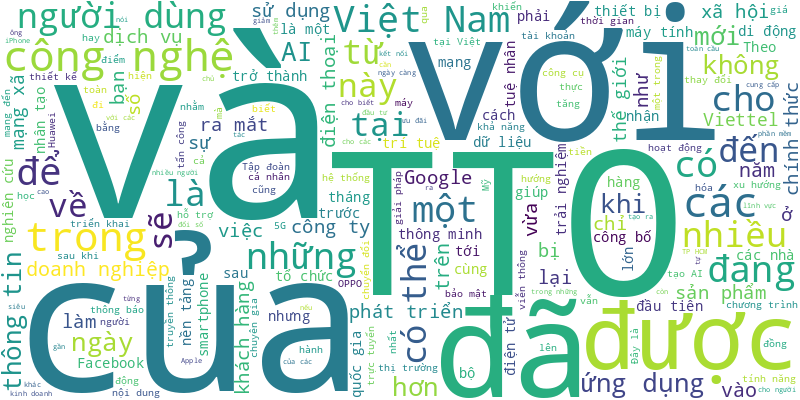
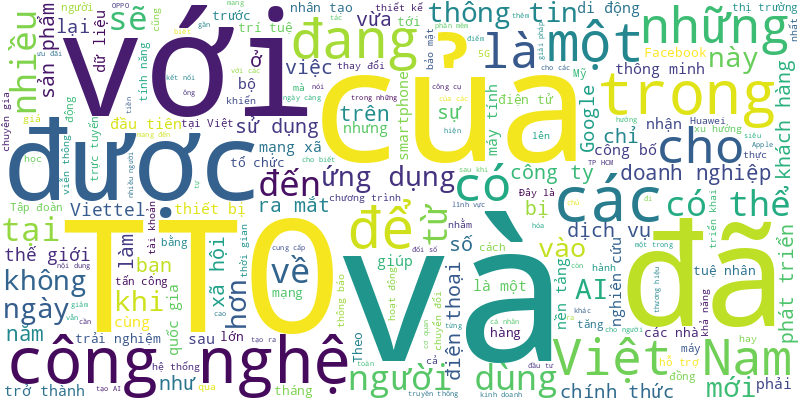
🍀 = 40%

diff --git a/README.md b/README.md
@@ -1,6 +1,17 @@
 # Tuoi Tre RSS 
 
 ## Giáo dục 
+- Theo sở GD-ĐT Hà Nội, trong kỳ thi tốt nghiệp THPT sắp tới, Hà Nội sẽ áp dụng bản đồ số để hỗ trợ thí sinh, phụ huynh tìm điểm thi.
+- Hiện nay các trường đại học đã tuyển sinh theo nhiều phương thức xét tuyển đa dạng nhưng việc xét tuyển theo khối thi có còn phù hợp với Chương trình giáo dục phổ thông 2018?
+- Trường đại học VinUni chính thức công bố chiến lược tăng tốc phát triển giai đoạn 2 với mục tiêu trở thành một trong 100 đại học xuất sắc nhất toàn cầu.
+- Trường Phổ thông Năng khiếu, Đại học Quốc gia TP.HCM cho biết sẽ công bố điểm thi, điểm chuẩn lớp 10 năm học 2025-2026 vào khoảng 10h-11h hôm nay (10-6).
+- Đã có những tỉnh thành đầu tiên công bố điểm thi, điểm chuẩn lớp 10 năm 2025. Dự kiến trong nửa cuối tháng 6, hàng loạt địa phương sẽ công bố kết quả.
+- Ở tuổi 19, Mạnh Đức đi thi vào lớp 10 và dắt theo em gái nhỏ. Đến cổng trường, nam sinh nhờ các tình nguyện viên trông em gái giúp và vội vàng vào phòng thi.
+- Báo cáo gửi đại biểu Quốc hội trước phiên chất vấn kỳ họp thứ 9, Bộ trưởng Nguyễn Kim Sơn tiếp tục đề xuất đưa dạy thêm, học thêm vào danh mục ngành nghề kinh doanh có điều kiện.
+- Sau 150 phút làm bài thi ngữ văn vào lớp 10 chuyên ở Hà Nội, nhiều thí sinh bước ra khỏi điểm thi với gương mặt vui tươi và nhận định đề thi "dễ hơn tưởng tượng", "mang tính cá nhân cao"...
+- Dự Luật Nhà giáo quy định lương nhà giáo được xếp cao nhất trong hệ thống thang bậc lương. Nhưng ông Phan Văn Mãi đề xuất cần có chế độ gấp đôi, gấp ba để tuyển chọn những người ưu tú nhất.
+- Hơn 102.000 thí sinh Hà Nội vừa trải qua kỳ thi dành cho khối không chuyên để tuyển sinh vào lớp 10 công lập. Mối quan tâm bây giờ là điểm chuẩn vào các trường liệu có biến động mạnh không?
+- Bộ trưởng Nguyễn Kim Sơn nêu rõ, trong trách nhiệm thực thi công vụ, giáo viên phải hoàn thành việc trang bị kiến thức cho học sinh của mình ngay trong giờ chính khóa.
 - Bên cạnh việc đào tạo thực hành, thực chiến dài hạn, xuyên suốt nguyên một học kỳ tại báo Tuổi Trẻ như lâu nay, chương trình Làm báo cùng Tuổi Trẻ mở ra một mô hình mới trong hợp tác đào tạo báo chí - truyền thông.
 - Học bổng trị giá 1 triệu đồng/suất dành cho các em nghèo hiếu học ở Kiên Giang cố gắng phấn đấu, vượt qua khó khăn, đi học để viết tiếp tương lai.
 - Trò chuyện với một cô giáo dạy văn trong lúc chờ học trò thi môn văn của kỳ thi tuyển sinh vào lớp 10 Hà Nội, bắt đầu với con số thật ấn tượng: một năm học, học trò được tiếp cận 86 văn bản và tác phẩm.
@@ -990,19 +1001,60 @@
 - Là thí sinh đạt điểm cao nhất kỳ thi đánh giá năng lực của Đại học Quốc gia Hà Nội đợt 1, Phương Thảo cho biết quá trình ôn thi của mình khá nhẹ nhàng, nói không với thức khuya quá 23h đêm.
 - Chiều 17-3, Sở Giáo dục và Đào tạo TP.HCM có văn bản chỉ đạo về việc ôn thi tốt nghiệp THPT cho học sinh lớp 12.
 - Việc tuyển sinh đầu cấp ở Hà Nội sẽ bắt đầu từ đầu tháng 7-2025, theo hướng dẫn tuyển sinh năm học 2025-2026 vừa được Sở Giáo dục và Đào tạo Hà Nội ban hành.
-- Thí sinh xét tuyển hệ quân sự phải trải qua sơ tuyển tại ban chỉ huy quân sự cấp quận, huyện, thị xã, thành phố, nơi đăng ký thường trú.
-- Văn Hoàng Minh Anh - học sinh lớp 10CATH1, Trường THPT chuyên Lê Hồng Phong, TP.HCM - cho rằng điện thoại thông minh làm cho học sinh dễ bị phân tâm, khó có thể tự học.
-- Trước đó, Vũ Minh Đức - học sinh lớp 12 toán 2 Trường THPT chuyên Bắc Ninh - trở thành thủ khoa kỳ thi đánh giá tư duy đợt 1 với 98,61/100 điểm - đây là điểm số cao nhất từ trước tới nay, xô đổ mọi kỷ lục của các thủ khoa những năm trước.
-- Học viện Tài chính vừa công bố phương án tuyển sinh năm 2025 với nhiều thay đổi, như bỏ phương thức xét tuyển theo điểm thi đánh giá năng lực, đánh giá tư duy.
-- Dự kiến cuối tháng 3-2025, Sở Giáo dục và Đào tạo TP.HCM sẽ cho ra mắt cổng thông tin điện tử về dạy thêm, học thêm.
-- Đại học Quốc gia Hà Nội vừa công bố chỉ tiêu tuyển sinh đại học chính quy năm 2025, tăng 2.285 chỉ tiêu so với năm ngoái.
-- Kỳ thi các môn năng khiếu được Trường đại học Kiến trúc TP.HCM tổ chức, bổ sung cho phương thức tuyển sinh đại học để lấy kết quả làm căn cứ, một tiêu chí phục vụ xét tuyển.
-- Hệ thống giáo dục Luxembourg nổi tiếng với việc giảng dạy đa ngôn ngữ, giúp học sinh thành thạo nhiều thứ tiếng.
-- Thay vì lo lắng, băn khoăn, các bạn trẻ cần trang bị cho mình kiến thức chuyên môn, kỹ năng mềm thật tốt; lựa chọn ngành nghề phù hợp với tố chất, đam mê của mình.
-- Theo hội đồng thi, điểm trung bình của bài thi đánh giá năng lực năm 2025 (kỳ thi HSA) sẽ cao hơn các năm trước. Lý do là thí sinh được lựa chọn phần thi thứ ba phát huy năng lực và sở trường cá nhân.
-- Bộ Công an sẽ có những điều chỉnh trong tuyển sinh Công an nhân dân về đơn vị sơ tuyển thí sinh, phương thức xét tuyển, nội dung bài thi đánh giá của Bộ Công an.
 ![Edu](Edu.png)
 ## Thời Sự 
+- Sở Nội vụ Quảng Nam yêu cầu rà soát, tổng hợp nhu cầu việc làm tại doanh nghiệp của những người sau nghỉ việc, nghỉ hưu trước tuổi do sắp xếp tổ chức bộ máy, đơn vị hành chính, nhất là người hoạt động không chuyên trách cấp xã.
+- Từ ngày 1-7, một số trường hợp tự đi khám chữa bệnh trái tuyến vẫn được hưởng 100% mức hưởng bảo hiểm y tế.
+- Quá trình tuần tra kiểm soát trên các tuyến đường, lực lượng cảnh sát đã phát hiện xe tải chở nhiều mặt hàng không rõ nguồn gốc xuất xứ.
+- Sáng nay 10-6, vùng áp thấp trên khu vực Bắc Biển Đông đã mạnh lên thành áp thấp nhiệt đới, dự báo sẽ còn mạnh lên thành bão số 1.
+- Tin tức đáng chú ý: Hoàn thành xóa nhà tạm, nhà dột nát trước ngày 31-8; Ủy ban Thường vụ Quốc hội cho ý kiến đầu tư đường vành đai 4 TP.HCM; Sợ hàng giả, dân đổ về siêu thị...
+- Hôm nay 10-6, thời tiết Bắc Bộ và Nam Bộ mưa dông, nhiều nơi mưa to. Trên biển, vùng áp thấp hoạt động ở Bắc Biển Đông gây sóng gió mạnh.
+- Ban Tuyên giáo và Dân vận Thành ủy TP.HCM đang hoàn chỉnh đề án sắp xếp hệ thống báo chí TP đồng bộ với sắp xếp đơn vị hành chính cấp tỉnh, hoàn thành trước ngày 15-9.
+- Ngày 9-6, Thủ tướng Chính phủ ban hành các quyết định kéo dài thời gian giữ chức vụ, bổ nhiệm lại với một số thứ trưởng Bộ Công an.
+- Đó là nội dung được nêu trong thông báo số 294 ngày 9-6 kết luận của Thường trực Chính phủ tại cuộc họp về tình hình thị trường bất động sản do Văn phòng Chính phủ vừa đưa ra.
+- Từ ngày 12-6 đến 30-6, TP.HCM sẽ vận hành thử nghiệm mô hình chính quyền địa phương 2 cấp trên địa bàn.
+- Ông Nguyễn Xuân Thắng - giám đốc Học viện Chính trị quốc gia Hồ Chí Minh, chủ tịch Hội đồng Lý luận Trung ương - đã khen Quảng Ngãi sáng tạo khi vận hành thử nghiệm hoạt động cấp xã trong 5 ngày.
+- Cơ quan chức năng huyện Vĩnh Thạnh (tỉnh Bình Định) đang vào cuộc xác minh clip một nam sinh bị nhóm bạn dùng tay, chân, gậy đánh dã man dù đã quỳ gối van xin.
+- 5 đơn vị hành chính cấp xã mới ở Đồng Nai gồm Phước Tân, Hàng Gòn, Xuân Lộc, Đại Phước và Phú Lâm sẽ vận hành thử nghiệm từ ngày 13-6 tới.
+- Chủ tịch Hà Nội yêu cầu phải khởi công depot Xuân Đỉnh vào tháng 10-2025, và khởi công toàn tuyến vào quý 4-2026 đối với dự án đầu tư xây dựng tuyến đường sắt đô thị số 2 (giai đoạn 1).
+- UBND TP.HCM yêu cầu khẩn trương lập danh sách các điểm cần đẩy mạnh ngăn chặn, đẩy lùi tình trạng buôn lậu, gian lận thương mại, hàng giả, sữa giả, thuốc giả, thực phẩm chức năng giả, thực phẩm không chất lượng.
+- Một bé trai 12 tuổi tại tỉnh Quảng Bình đã bị bỏng nặng, do thả diều vướng vào đường dây điện cao thế.
+- Người mẹ chở con trai 3 tuổi về nhà ngoại, không may xe và người rơi xuống mương nước lớn dọc quốc lộ 25 (đoạn qua xã Hòa Định Tây, huyện Phú Hòa, tỉnh Phú Yên). Người dân kịp thời cứu được bé trai, nhưng người mẹ bị cuốn trôi và chết đuối.
+- Mặc dù chưa được cấp có thẩm quyền cho phép song một doanh nghiệp đã đưa cá đến khu vực hồ Kẻ Gỗ thả nuôi, việc này dẫn đến một số tổ chức, cá nhân liên quan bị kiểm điểm, làm rõ trách nhiệm.
+- UBND tỉnh Ninh Bình đề xuất Bộ Xây dựng báo cáo cấp có thẩm quyền mở rộng cao tốc Cầu Giẽ - Ninh Bình từ 4 làn xe lên 6 làn xe hoàn chỉnh.
+- Dự báo trong 24 giờ tới, vùng áp thấp có khả năng mạnh lên thành áp thấp nhiệt đới, sau đó tiếp tục mạnh lên thành bão với xác suất 60-70%.
+- UBND tỉnh Kon Tum yêu cầu Sở Nông nghiệp và Môi trường báo cáo lại vụ cấp mã số vùng trồng sâm Ngọc Linh cho một doanh nghiệp vì cho rằng báo cáo chưa rõ ràng, thiếu cơ sở pháp lý và thực tiễn.
+- Tổng Bí thư Tô Lâm nhìn nhận sáp nhập Lâm Đồng, Bình Thuận, Đắk Nông thành tỉnh Lâm Đồng mới là quyết sách chiến lược nhằm tái cấu trúc không gian phát triển.
+- Ngày 9-6, Ban Thường vụ Tỉnh ủy Thanh Hóa đã cho ý kiến vào kế hoạch tổ chức vận hành thử nghiệm hoạt động của các cơ quan đảng, hội đồng nhân dân, UBND xã, phường mới sau sắp xếp đơn vị hành chính.
+- Xã Bình Sơn có dân số đông nhất, xã Cà Đam có dân số ít nhất, xã Ba Tô có diện tích rộng nhất, phường Cẩm Thành có diện tích nhỏ nhất tỉnh Quảng Ngãi sau sắp xếp, sáp nhập đơn vị hành chính cấp xã.
+- Từ 2020-2025, Liên doanh Việt - Nga Vietsovpetro khai thác được 14,6 triệu tấn dầu thô, qua đó doanh thu bán dầu và các sản phẩm đi cùng ước đạt 9,03 tỉ đô la Mỹ.
+- Dù tỉnh đã thống nhất hủy bỏ, người dân bị thu hồi đất trong "dự án treo" suốt 15 năm lo lắng sẽ không được giải quyết trước khi bỏ cấp huyện.
+- Ngày 9-6, lãnh đạo UBND phường 12 (quận 10, TP.HCM) cho biết sẽ cho xác minh thông tin bãi giữ xe tại số 816 Sư Vạn Hạnh lấy giá 200.000 đồng/ngày, sau khi một số tài khoản đăng clip gán ghép bãi giữ xe này là của Bệnh viện Nhân dân 115.
+- Phát hiện hàng loạt vi phạm về môi trường tại 1 resort ven biển, Đà Nẵng đã xử phạt với tổng số tiền hơn 224 triệu đồng. Nhiều người bày tỏ ủng hộ việc xử lý này.
+- Hà Nội thành lập 11 tổ công tác, nhằm tổ chức phối hợp liên ngành có chức năng giúp Chủ tịch UBND TP nghiên cứu, tổ chức thực hiện, phối hợp giải quyết các vấn đề quan trọng, thường xuyên, liên ngành trong quá trình sắp xếp, tổ chức lại cấp xã.
+- Chỉ số đại diện sàn chứng khoán lớn nhất Việt Nam khép lại phiên giao dịch đầu tuần với mức giảm gần 20 điểm. Cổ phiếu nhóm Vingroup là tâm điểm khi đồng loạt giảm sàn, gây áp lực mạnh lên chỉ số chung.
+- Quy định cũ, quyết định 32 cho phép khai thác vỉa hè vào mục đích cụ thể, nhưng lại chưa được thể hiện trong nghị định 165 mới. TP.HCM đang xem xét điều chỉnh chính sách phù hợp với thực tế.
+- Công an tỉnh Phú Yên đã khởi tố bị can về tội danh 'sản xuất, buôn bán hàng giả là thực phẩm' với bà Đặng Thị Hòa Hiệp (53 tuổi, trú khu phố 3, phường An Phú, TP Thủ Đức, TP.HCM), là chủ thương hiệu cà phê Dạ Thảo.
+- Tổng Bí thư Tô Lâm chỉ đạo phải có quy hoạch quốc gia một cách thống nhất là cơ sở để phát triển từ trung ương đến địa phương.
+- Người chồng chở vợ và con nhỏ chạy trên tỉnh lộ 8 (huyện Củ Chi, TP.HCM) thì xảy ra va chạm với xe container khiến hai người bị cán tử vong thương tâm. Lực lượng chức năng đang điều tra nguyên nhân.
+- Biên phòng Cà Mau vừa tiếp nhận và chăm sóc nhân đạo cho 8 người nước ngoài trôi dạt trên biển. Hiện tại sức khỏe và tinh thần các thuyền viên đã ổn định.
+- Bộ trưởng Bộ Tài chính Nguyễn Văn Thắng cho hay việc bổ sung quy định phát hành trái phiếu riêng lẻ của công ty chưa đại chúng nhằm tăng năng lực về tài chính với doanh nghiệp phát hành.
+- Tổng thống Lithuania Gitanas Nauseda và Phu nhân sẽ thăm chính thức Việt Nam từ ngày 11 đến 12-6.
+- Ngày 9-6, lực lượng Công an TP.HCM đã tìm ra người đổ hàng ngàn hộp thuốc, thực phẩm chức năng ở Bình Chánh. Người này khai được người khác thuê, với số tiền công hàng triệu đồng.
+- Để nghị quyết 68 nhanh chóng đi vào cuộc sống, báo chí có sứ mệnh đặc biệt khi trở thành cầu nối vững chắc giữa chính sách và thực tiễn, thúc đẩy kinh tế tư nhân phát triển bền vững.
+- Sáng 9-6, Chủ tịch UBND TP Hà Nội Trần Sỹ Thanh làm việc với Hiệp hội Các nhà sản xuất xe máy Việt Nam (VAMM) về các giải pháp cho vấn đề chuyển đổi xe mô tô, xe gắn máy sử dụng nhiên liệu hóa thạch tại Hà Nội.
+- Công chứng điện tử tiện lợi hơn nhưng trước mắt còn thiếu nhiều công cụ hỗ trợ.
+- Cảnh sát hình sự Đà Nẵng vừa bắt nhóm người đi ô tô từ các tỉnh phía Bắc đến Đà Nẵng sau đó trà trộn vào lễ hội pháo hoa để móc túi.
+- Phường Bình Dương, phường Tân Uyên, phường Tân Đông Hiệp... là các phường mới sáp nhập của tỉnh Bình Dương bắt đầu vận hành thử nghiệm từ hôm nay, nhận hồ sơ dịch vụ hành chính công của người dân.
+- Một trong những trọng tâm được đẩy mạnh đầu tư là hệ thống đường vành đai, cao tốc liên vùng đang dần được hình thành sau nhiều năm chờ đợi.
+- Theo đại diện Công ty Thủy điện Hòa Bình, mực nước hồ Hòa Bình xuống mức 85m không ảnh hưởng đến việc phát điện và nằm trong kế hoạch khai thác theo đúng quy trình.
+- Dự Luật Nhà giáo quy định lương nhà giáo được xếp cao nhất trong hệ thống thang bậc lương. Nhưng ông Phan Văn Mãi đề xuất cần có chế độ gấp đôi, gấp ba để tuyển chọn những người ưu tú nhất.
+- Quyết tâm từ TP.HCM và các tỉnh làm tăng cả về số lượng và quy mô dự án, có những dự án cần triển khai gấp để người dân đi lại thuận tiện hơn.
+- Tại buổi làm việc với Tổng Bí thư Tô Lâm, lãnh đạo tỉnh Lâm Đồng đã đề xuất nâng cấp chuẩn 4E cho sân bay Liên Khương, cửa ngõ Đà Lạt và triển khai nhiều dự án giao thông phát triển tỉnh Lâm Đồng sau sáp nhập.
+- Gần 1.000ha trồng xoài ở xã Đắk Gằn (huyện Đắk Mil, Đắk Nông) đang vào chính vụ thu hoạch, nhưng xoài rớt giá còn 1.000 - 3.000 đồng/kg, bán cả tạ chỉ đủ mua vài ký gạo.
+- Sáng 9-6, lực lượng chức năng cấm xe máy vào đường dẫn cao tốc TP.HCM - Long Thành - Dầu Giây, khiến các tuyến đường xung quanh ùn tắc nghiêm trọng. Lực lượng cảnh sát giao thông nỗ lực phân luồng.
+- Bộ trưởng Nguyễn Kim Sơn nêu rõ, trong trách nhiệm thực thi công vụ, giáo viên phải hoàn thành việc trang bị kiến thức cho học sinh của mình ngay trong giờ chính khóa.
+- Tỉnh Đắk Nông yêu cầu kiểm tra, xử lý dứt điểm các khoản nợ tiền ăn uống, văn phòng phẩm kéo dài suốt gần 10 năm tại thị trấn Kiến Đức và xã Kiến Thành (Đắk R'lấp), trước khi sáp nhập đơn vị hành chính.
 - Vùng áp thấp hiện đang hoạt động ở Biển Đông có thể mạnh lên thành áp thấp nhiệt đới gây thời tiết xấu trên biển, trong đất liền cũng có nơi mưa to.
 - Xưởng phế liệu nằm cạnh dãy trọ với khoảng 10 người thuê trọ ở Bình Dương bốc cháy dữ dội vào sáng 9-6.
 - Công trình cầu Rạch Miễu 2 đang bước vào giai đoạn nước rút, gần 600 cán bộ kỹ thuật, công nhân đang ngày đêm làm việc để kịp hoàn thành dự án trong tháng 8-2025.
@@ -1951,60 +2003,10 @@
 - Phó thủ tướng thường trực Chính phủ Nguyễn Hòa Bình yêu cầu xử lý các dự án tồn đọng trước khi sáp nhập ba tỉnh thành tỉnh Lâm Đồng mới.
 - Ngân 98 cho biết vừa làm đơn tố giác gửi đến cơ quan chức năng, nghi ngờ bị vu khống và hãm hại có tổ chức để hạ bệ danh dự và uy tín.
 - Cảng nước sâu Mỹ Thủy có khả năng đón tàu 100.000 tấn đang gấp rút thi công, để đưa 1 bến cảng vào hoạt động cuối năm 2025, cùng với mong muốn biến cảng này thành một trong những cảng trung tâm cả nước.
-- Tin COVID-19 'nóng' trở lại, khiến lượng khẩu trang bán ra trên chợ mạng Shopee tăng vọt hơn 65% chỉ trong 2 tuần đầu tháng 5.
-- Chiều 21-5,  Bộ Quốc phòng tổ chức hội nghị giao nhiệm vụ triển khai tổ chức quân sự địa phương khi tổ chức bộ máy chính quyền địa phương 2 cấp. Đại tướng Phan Văn Giang, bộ trưởng Bộ Quốc phòng, chủ trì buổi làm việc.
-- 7 học sinh ở Quảng Ninh đi tắm suối bị lũ cuốn trôi, cơ quan chức năng đã cứu sống 3 em, 1 em đã chết, còn 3 em vẫn mất tích.
-- Công an tỉnh Phú Yên vừa nhận được lá thư cảm ơn từ chị Đoàn Thị Diễm Ni (trú xã Suối Bạc, huyện Sơn Hòa) vì đã đưa chị gái về với gia đình an toàn sau khi được giải cứu khỏi bẫy 'việc nhẹ lương cao'.
-- Bộ tư lệnh Vùng Cảnh sát biển 4 vừa phát hiện, bắt giữ tàu vận chuyển khoảng 60.000 dầu DO trái phép trên vùng biển Tây Nam.
-- Giá cát, đá tăng gấp 2-3 lần, chiếm gần nửa chi phí xây dựng khiến hàng ngàn căn nhà trong chương trình xóa nhà tạm cho hộ nghèo, đồng bào dân tộc thiểu số ở Tây Nguyên có nguy cơ dang dở.
-- Nguyên Chủ tịch nước Trần Đức Lương từ trần hồi 22h51 ngày 20-5 tại nhà riêng, hưởng thọ 88 tuổi.
-- Để ứng phó với biến chủng Omicron XEC, Sở Y tế TP.HCM đề nghị cơ sở khám chữa bệnh tăng cường giám sát, tuân thủ đeo khẩu trang đối với toàn bộ người ra vào bệnh viện.
-- Độ tuổi cán bộ lần đầu tham gia cấp ủy cấp xã sau sáp nhập phải còn thời gian công tác ít nhất từ 60 tháng trở lên, tái cử còn ít nhất từ 48 tháng trở lên.
-- TP.HCM vừa có kế hoạch triển khai đề án sắp xếp, bố trí và thực hiện chế độ, chính sách cho cán bộ khi thực hiện sắp xếp bộ máy, yêu cầu giảm thiểu tối đa người dôi dư.
-- UBND TP.HCM vừa thành lập Ban Chỉ đạo của UBND TP.HCM về phát triển khoa học, công nghệ, đổi mới sáng tạo, chuyển đổi số và đề án 06 do Chủ tịch UBND TP.HCM Nguyễn Văn Được làm trưởng ban chỉ đạo.
-- Chiều 21-5, Thủ tướng Phạm Minh Chính dự lễ khởi công dự án khu phức hợp đô thị, du lịch sinh thái và sân golf Khoái Châu (dự án Trump International Hưng Yên).
-- Ngoài việc kiểm tra hàng giả, hàng không rõ nguồn gốc, Bộ Nông nghiệp và Môi trường sẽ tập trung kiểm tra việc dùng chất kích thích tăng trưởng hoa quả, chất cấm vàng O trên sầu riêng.
-- Công nhân Nhà máy nam châm từ tính tại Khu công nghiệp Bắc Chu Lai kể lại giây phút nổ máy phủ bề mặt nam châm khiến 12 người nhập viện.
-- Đó là yêu cầu của Bộ trưởng Bộ Xây dựng Trần Hồng Minh, trong buổi kiểm tra tiến độ dự án cao tốc Biên Hòa - Vũng Tàu.
-- Công ty cổ phần Cấp thoát nước Quảng Nam vừa có thông báo đến khách hàng sử dụng nước của doanh nghiệp này về việc sẽ áp dụng đơn giá nước sạch mới trong tháng 5-2025.
-- Ngày 21-5, TAND TP Đà Nẵng xét xử bị cáo Trần Kim Hùng (trú Nam Định), Trịnh Thị Hồng (trú Thanh Hóa) về tội lừa đảo chiếm đoạt tài sản.
-- Tòa nhà nằm ở vị trí đắc địa ngay bên cầu Thuận Phước (Đà Nẵng) đã bị tạm đình chỉ hoạt động, vì không đảm bảo an toàn phòng cháy, chữa cháy.
-- Dự kiến sau hợp nhất hai tỉnh Cà Mau, Bạc Liêu, hai Vườn quốc gia U Minh Hạ và Vườn quốc gia Mũi Cà Mau và Trường đại học Bạc Liêu được đề xuất giữ nguyên hiện trạng vì có tính chất riêng biệt.
-- Chiều 21-5, khu vực trung tâm Hà Nội đang mưa vừa, có nơi mưa to đến rất to. Dự báo trong chiều tối nay còn tiếp tục mưa 30-50mm, có nơi trên 80mm, nguy cơ ngập lụt nhiều tuyến phố.
-- Đằng sau cuộc cách mạng tinh gọn bộ máy là cả một hành trình nỗ lực thích nghi nhiệm vụ, tự rèn luyện, cống hiến của cán bộ, chiến sĩ công an xã trên khắp mọi miền đất nước, họ đang thực sự 'rèn thép' giữa đời thường, 'sâu một việc, biết nhiều việc'.
-- Chiếc xe hơi 7 chỗ mang biển số tỉnh Tây Ninh đậu bên đường Phạm Ngọc Thảo (quận Tân Phú, TP.HCM) suốt khoảng một năm nay chưa ai tới lấy.
-- Một người đàn ông ở Quảng Nam bị xử phạt hành chính 9 triệu đồng vì tổ chức giải bóng đá quần chúng không xin phép, quảng cáo cho trang web cá cược bóng đá trên mạng xã hội.
-- Đài phát thanh và truyền hình tỉnh Quảng Ngãi sáp nhập vào báo Quảng Ngãi. Báo Quảng Ngãi sau sáp nhập chưa có tổng biên tập. Ông Nguyễn Phú Đức, phó tổng biên tập được giao điều hành hoạt động của báo Quảng Ngãi.
-- Sau khi quay cảnh 3 nam sinh nhảy xuống nước, thấy bạn bị đuối nước nam sinh đứng quay clip phía trên đã chạy đi gọi người cứu. Kết quả một nam sinh được cứu, hai người còn lại không qua khỏi.
-- Tại Việt Nam, hiện có tới 52,9% số doanh nghiệp, tổ chức chưa có đầy đủ các giải pháp công nghệ để ứng phó sự cố an ninh mạng trong khi liên tiếp nhiều doanh nghiệp, tổ chức tại Việt Nam bị tấn công mạng trong thời gian qua.
-- Dự án trên đưa vào khai thác sẽ liền mạch các đoạn đường ven biển qua Phan Thiết, hình thành công viên ven biển, quảng trường biển hiện đại…
-- Mỗi lần mưa lớn, người dân lại thấp thỏm đi qua hầm chui trước bến xe Miền Đông mới (TP Thủ Đức). Dù từng được lý giải nguyên nhân và hứa khắc phục, nhưng những ngày gần đây tình trạng ngập vẫn tái diễn.
-- Công an, dân quân cùng chính quyền xã Vĩnh Giang (Vĩnh Linh, Quảng Trị) đang truy lùng một người đàn ông nghi đâm hàng xóm tử vong rồi bỏ trốn.
-- Xảy ra sự cố được cho là nổ máy phủ của nhà máy sản xuất nam châm từ tính tại Khu công nghiệp Bắc Chu Lai, huyện Núi Thành, Quảng Nam, một số người nhập viện.
-- Đại biểu Quốc hội đề nghị làm rõ vị trí pháp lý, nguồn thu và nhiệm vụ chi của Quỹ Nhà ở quốc gia khi phát triển nhà ở xã hội.
-- Sự hoạt động mạnh lên của rãnh áp thấp và đới gió tây nam khiến thời tiết Nam Bộ, TP.HCM chiều nay dự báo có mưa to.
-- Ngày 20-5, chủ tịch UBND tỉnh Bắc Ninh đã làm việc với Đại học Bách khoa Hà Nội và Trường đại học Ngoại thương về kế hoạch đầu tư xây dựng các cơ sở đào tạo mới.
-- Sau khi Bình Dương và Bà Rịa - Vũng Tàu sáp nhập vào TP.HCM, dự báo lượt khám bệnh tại các bệnh viện tuyến cuối TP.HCM sẽ tăng gần chục triệu lượt, gây quá tải.
-- Đề xuất bỏ tử hình với một số tội danh như làm thuốc giả, vận chuyển trái phép chất ma túy... đang có nhiều ý kiến trái chiều từ bạn đọc.
-- Đảo Phú Quý, hồ Tà Đùng được tỉnh Bình Thuận, Đắk Nông kiến nghị những chính sách quan trọng để phát triển và có vai trò quan trọng với tỉnh Lâm Đồng mới.
-- Bị thu hồi toàn bộ diện tích đất nông nghiệp 12.394m² nhưng hộ nông dân ở Tân Phú (Đồng Nai) chưa được hỗ trợ và phải làm xác nhận nông dân.
-- Từ chuyện một huyện ở Đồng Nai tổ chức ra Hà Giang 'học tập kinh nghiệm chuyển đổi số giáo dục', hàng loạt câu hỏi được đặt ra.
-- Đại biểu Dương Tấn Quân cho rằng việc quy định cứng nhắc 'bắt công chức nhà phải cách xa chỗ làm 30km mới được mua nhà ở xã hội là không hợp lý'.
-- Tại Quảng Bình, người thân và cơ quan chức năng đang tìm kiếm một nữ sinh mất tích sau khi rời khỏi nhà bằng xe đạp điện từ chiều 19-5. Người dân phát hiện nữ sinh có lên một chiếc xe khách ra hướng Bắc.
-- Một chiếc xe tải đang chạy trên cao tốc Cam Lộ - La Sơn thì bất ngờ mất lái, va chạm với xe đi ngược chiều rồi lao vào hộ lan và lật nghiêng giữa đường.
-- Chuỗi bài về sự phát triển của hạ tầng giao thông TP.HCM, tuyến bài 'Để TP.HCM là thành phố sáng tạo điện ảnh đầu tiên của Đông Nam Á', và phóng sự ảnh 'Người tiên phong mổ não bằng robot AI' tại Việt Nam đã được TP.HCM khen thưởng.
-- Một hài cốt liệt sĩ cùng nhiều di vật được phát hiện trong quá trình thi công dự án điện gió. Vị trí này trước đây có các đơn vị Sư đoàn 304 chiến đấu, đánh điểm cao 689.
-- Ban Thường vụ Tỉnh ủy Kiên Giang đã ban hành kế hoạch xây dựng phương án nhân sự sau sáp nhập tỉnh.
-- Cơ quan chức năng lập biên bản xử lý một người đàn ông lái xe ngược chiều lao vun vút trên cao tốc Liên Khương - Prenn Đà Lạt.
-- Sau vụ tai nạn giao thông khiến 4 người bị thương trên đường dẫn lên cao tốc giao với quốc lộ 8C, chủ đầu tư dự án thành phần Hàm Nghi - Vũng Áng đã triển khai lắp vòng xuyến tại ngã tư để hạn chế tai nạn.
-- Liên quan các sai phạm dự án điện gió, Ủy ban Kiểm tra Tỉnh ủy Đắk Nông đã kỷ luật cảnh cáo nguyên phó giám đốc Sở Kế hoạch và Đầu tư tỉnh.
-- TP Nha Trang đề xuất đầu tư thêm cầu vượt đường sắt tại Mã Vòng trên cùng một đoạn đường sắt và chỉ cách nút giao cầu vượt Ngọc Hội hơn 1km, Sở Xây dựng Khánh Hòa đã có đề nghị xem xét để tránh lãng phí.
-- Dự luật sửa Luật Mặt trận Tổ quốc Việt Nam, Luật Công đoàn quy định cơ quan, đơn vị sự nghiệp công lập hưởng 100% lương từ ngân sách nhà nước không còn là đối tượng phải đóng công đoàn phí.
-- 10 lô đất này rộng 100ha, thông qua việc đấu giá nhằm tăng nguồn thu ngân sách và đầu tư các công trình phúc lợi xã hội.
-- Chủ tịch UBND TP.HCM Nguyễn Văn Được đã đề xuất Thủ tướng cho phép TP.HCM được triển khai chuyển đổi số toàn diện, tiếp nhận và trả kết quả điện tử giấy phép kinh doanh vận tải và phù hiệu.
-- Với 100% đại biểu Quốc hội có mặt tán thành, Quốc hội đã thông qua nghị quyết về rút ngắn nhiệm kỳ Quốc hội khóa XV và HĐND các cấp nhiệm kỳ 2021 - 2026, ấn định ngày bầu cử khóa mới.
 ![New](News.png)
 ## Nhịp sống số 
+- Từ những tờ hóa đơn giấy dễ rách, dễ thất lạc đến hóa đơn thông minh, AI đã tạo nên bước chuyển mạnh mẽ, giúp xử lý hóa đơn nhanh chóng, chính xác và tự động gửi dữ liệu về cơ quan thuế.
+- Chỉ một cú nhấp chuột vào đường link giả mạo, toàn bộ tài khoản ngân hàng có thể bị đánh cắp trong vài phút. Từ tin nhắn SMS mang tên thương hiệu quen thuộc đến website lừa đảo tinh vi, kẻ gian đang tận dụng công nghệ để lừa người dùng.
 - Thị trường chứng khoán Việt xuất hiện đủ chiêu lừa công nghệ cao: dựng ứng dụng đầu tư giả mạo với giao diện chuyên nghiệp, giả danh chuyên gia tư vấn...
 - iOS 26 sẽ gồm những tính năng mới như dịch cuộc gọi và tin nhắn trong thời gian thực, trợ lý AI thông minh, sáng tạo emoji... Khám phá những tiện ích mới mà iOS 26 mang lại cho iPhone.
 - Kẹt xe không còn là chuyện 'vô phương cứu chữa' khi những cột đèn giao thông nay đã biết 'suy nghĩ', giúp chúng ta đi lại thuận tiện hơn mỗi ngày.
@@ -3003,6 +3005,4 @@
 - TTO - AI Guardman, một camera an ninh ứng dụng AI được phát triển bởi các nhà lập trình Nhật Bản, đã có thể phát hiện và báo cáo các hành vi đáng ngờ mà không cần sự giám sát của con người.
 - TTO - Mạng xã hội Facebook thông báo những thay đổi mới, nới lỏng hơn với chính sách quảng cáo tiền điện tử, thay vì cấm triệt để như trước trên nền tảng này.
 - TTO - Theo nghiên cứu mới của Mỹ, phẫu thuật robot, một công nghệ sử dụng hệ thống robot để hỗ trợ trong các thủ thuật phẫu thuật, có nhiều lợi thế hơn khi điều trị các bệnh liên quan đến bàng quang hay tuyến tiền liệt.
-- TTO - Một hãng công nghệ có trụ sở tại Cyprus công bố đã chế tạo được chiếc xe hơi có bộ dụng cụ do thám thế hệ mới có thể bẻ khóa (hack) một chiếc iPhone và Android từ khoảng cách 500 mét.
-- TTO - Hình thức này còn gọi là “nick-napping” và sẽ gây ra nhiều phiền toái cho người dùng nếu hacker đánh cắp được địa chỉ email, tài khoản mạng xã hội hoặc tài khoản mua hàng trực tuyến.
 ![life](Life.png)
